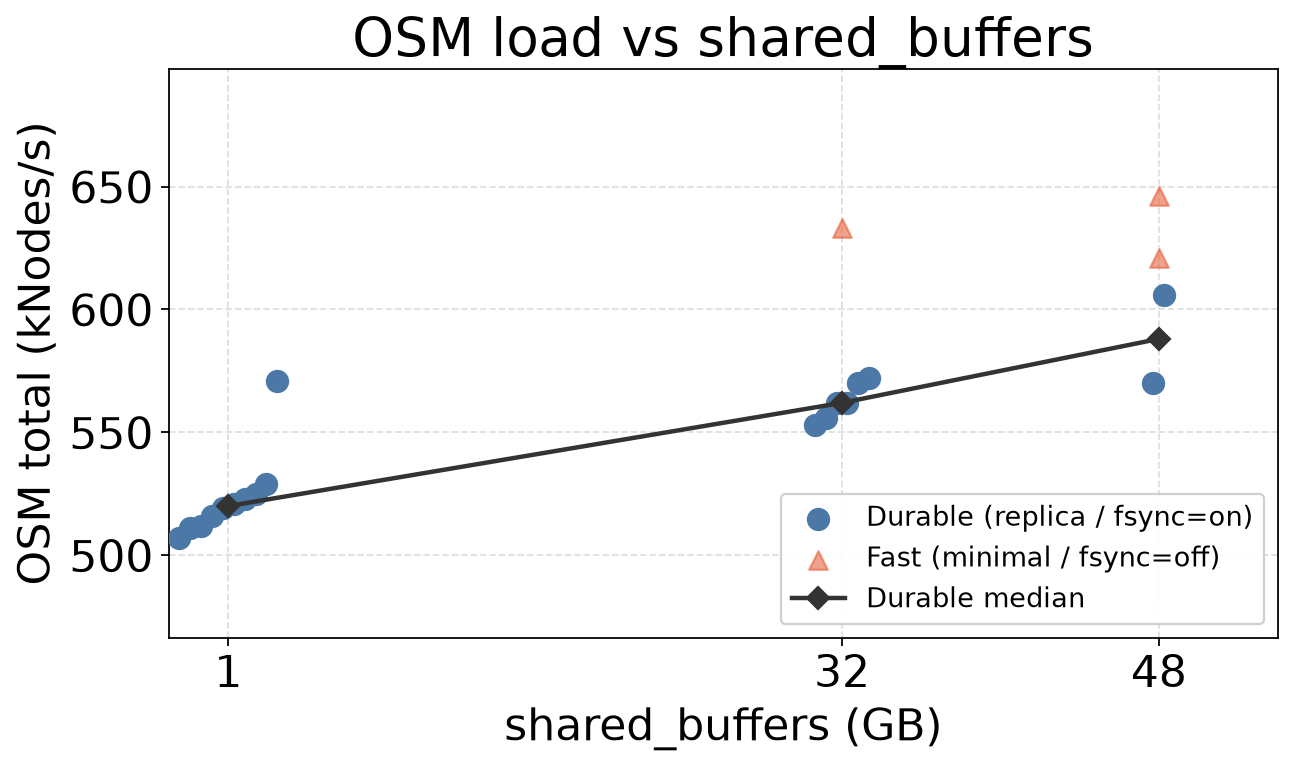
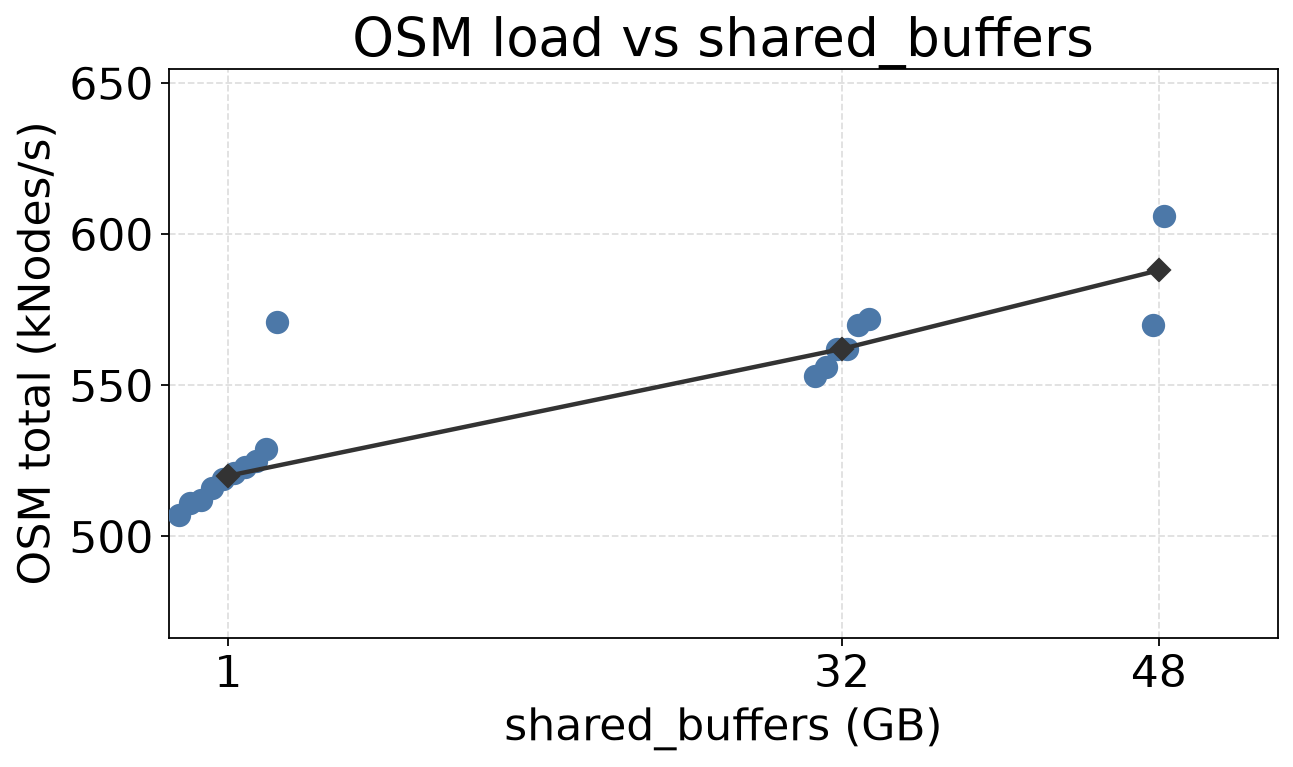
Drop Fast cells and the legend from the shared_buffers OSM chart.

diff --git a/reports/shared-buffers.py b/reports/shared-buffers.py
@@ -2,9 +2,9 @@
 """
 Graph the twilight set-98 shared_buffers OSM sweep (PG16.3).
 
-Durable (fsync=on / wal_level=replica) points are the fair A/B; fast
-(minimal / fsync=off) cells are shown faintly for context. Conclusions still
-apply on later majors — the lab standardized on 48GB after this study.
+Durable (fsync=on / wal_level=replica) points are the fair A/B, with a
+median line per shared_buffers size. Conclusions still apply on later
+majors — the lab standardized on 48GB after this study.
 
 Usage:
   MPLBACKEND=Agg MPLCONFIGDIR="$PWD/.matplotlib-cache" \\
@@ -25,7 +25,7 @@ import pandas as pd
 from matplotlib.ticker import ScalarFormatter
 
 sys.path.insert(0, str(Path(__file__).resolve().parent))
-from pg18_style import LEADERBOARD_LEGEND_FONTSIZE, use_pg18_style
+from pg18_style import use_pg18_style
 
 REPO_ROOT = Path(__file__).resolve().parents[1]
 DEFAULT_CONN = "host=localhost dbname=results user=gsmith password=secret"
@@ -33,7 +33,6 @@ SQL_PATH = REPO_ROOT / "reports" / "shared-buffers.sql"
 PUBLIC_IMAGE = REPO_ROOT / "docs" / "images" / "shared-buffers-osm.png"
 
 DURABLE_COLOR = "#4c78a8"
-FAST_COLOR = "#e4572e"
 MEDIAN_COLOR = "#333333"
 
 
@@ -83,46 +82,31 @@ def prepare_df(df: pd.DataFrame) -> pd.DataFrame:
     for col in ("shared_gb", "hours", "overall_kips"):
         out[col] = pd.to_numeric(out[col], errors="coerce")
     out = out.dropna(subset=["shared_gb", "overall_kips"])
-    out = out[out["face"].isin(["durable", "fast"])].copy()
-    return out.sort_values(["shared_gb", "face", "overall_kips"]).reset_index(drop=True)
+    out = out[out["face"] == "durable"].copy()
+    return out.sort_values(["shared_gb", "overall_kips"]).reset_index(drop=True)
 
 
 def plot_shared_buffers(df: pd.DataFrame, output: Path, show: bool = False) -> None:
     use_pg18_style()
     fig, ax = plt.subplots(figsize=(8.5, 5.2))
 
-    durable = df[df["face"] == "durable"]
-    fast = df[df["face"] == "fast"]
-
     # Slight x jitter so overlapping runs at the same SB stay visible.
-    durable_x = durable["shared_gb"].to_numpy(dtype=float).copy()
-    for gb in durable["shared_gb"].unique():
-        idx = durable["shared_gb"].to_numpy() == gb
+    durable_x = df["shared_gb"].to_numpy(dtype=float).copy()
+    for gb in df["shared_gb"].unique():
+        idx = df["shared_gb"].to_numpy() == gb
         n = int(idx.sum())
         if n > 1:
             durable_x[idx] += (pd.Series(range(n)) - (n - 1) / 2.0).to_numpy() * 0.55
     ax.scatter(
         durable_x,
-        durable["overall_kips"],
+        df["overall_kips"],
         s=90,
         c=DURABLE_COLOR,
         zorder=3,
-        label="Durable (replica / fsync=on)",
     )
-    if not fast.empty:
-        ax.scatter(
-            fast["shared_gb"],
-            fast["overall_kips"],
-            s=70,
-            c=FAST_COLOR,
-            marker="^",
-            alpha=0.55,
-            zorder=2,
-            label="Fast (minimal / fsync=off)",
-        )
 
     med = (
-        durable.groupby("shared_gb", as_index=False)["overall_kips"]
+        df.groupby("shared_gb", as_index=False)["overall_kips"]
         .median()
         .sort_values("shared_gb")
     )
@@ -134,7 +118,6 @@ def plot_shared_buffers(df: pd.DataFrame, output: Path, show: bool = False) -> N
         marker="D",
         markersize=7,
         zorder=4,
-        label="Durable median",
     )
 
     ax.set_xticks([1, 32, 48])
@@ -149,12 +132,11 @@ def plot_shared_buffers(df: pd.DataFrame, output: Path, show: bool = False) -> N
     formatter = ScalarFormatter(useOffset=False)
     formatter.set_scientific(False)
     ax.yaxis.set_major_formatter(formatter)
-    ax.legend(loc="lower right", fontsize=LEADERBOARD_LEGEND_FONTSIZE, framealpha=0.92)
     fig.tight_layout()
 
     output.parent.mkdir(parents=True, exist_ok=True)
     fig.savefig(output, dpi=160, bbox_inches="tight")
-    print(f"Wrote {output} ({len(df)} runs, twilight set 98)")
+    print(f"Wrote {output} ({len(df)} durable runs, twilight set 98)")
     if show:
         plt.show()
     plt.close(fig)

diff --git a/docs/model/shared_buffers.md b/docs/model/shared_buffers.md
@@ -22,7 +22,7 @@ There are two main scalability limits to large amount of `shared_buffers`.  The 
 
 ![OSM load vs shared_buffers]({{ '/images/shared-buffers-osm.png' | relative_url }})
 
-Twilight set **98** (PostgreSQL **16.3**, i5-13600K, ~128 GB RAM): durable OSM loads at `shared_buffers` **1 / 32 / 48 GB**. Median durable throughput steps up from the 1 GB false valley through the ¼-RAM **32 GB** cell; **48 GB** (~38% of RAM) is still faster. Fast (`wal_level=minimal` / `fsync=off`) cells sit above the durable band. The lab standardized on 48 GB after this study; later majors did not re-sweep the knob. Regenerate: `MPLBACKEND=Agg MPLCONFIGDIR="$PWD/.matplotlib-cache" .venv-graph/bin/python reports/shared-buffers.py`.
+Twilight set **98** (PostgreSQL **16.3**, i5-13600K, ~128 GB RAM): durable OSM loads at `shared_buffers` **1 / 32 / 48 GB**. Median throughput steps up from the 1 GB false valley through the ¼-RAM **32 GB** cell; **48 GB** (~38% of RAM) is still faster. The lab standardized on 48 GB after this study; later majors did not re-sweep the knob. Regenerate: `MPLBACKEND=Agg MPLCONFIGDIR="$PWD/.matplotlib-cache" .venv-graph/bin/python reports/shared-buffers.py`.
 
 Increase it to 38%/48GB and it gets faster.  But the CPU overhead of running the buffer cache makes that and higher values less efficient.   Eviction from the cache with the simple Clock Sweep method requires multiple passes over the entire pool before something gets removed.  Obtaining locks on the buffer cache structures, with full database sementics, that adds overhead too.
 
